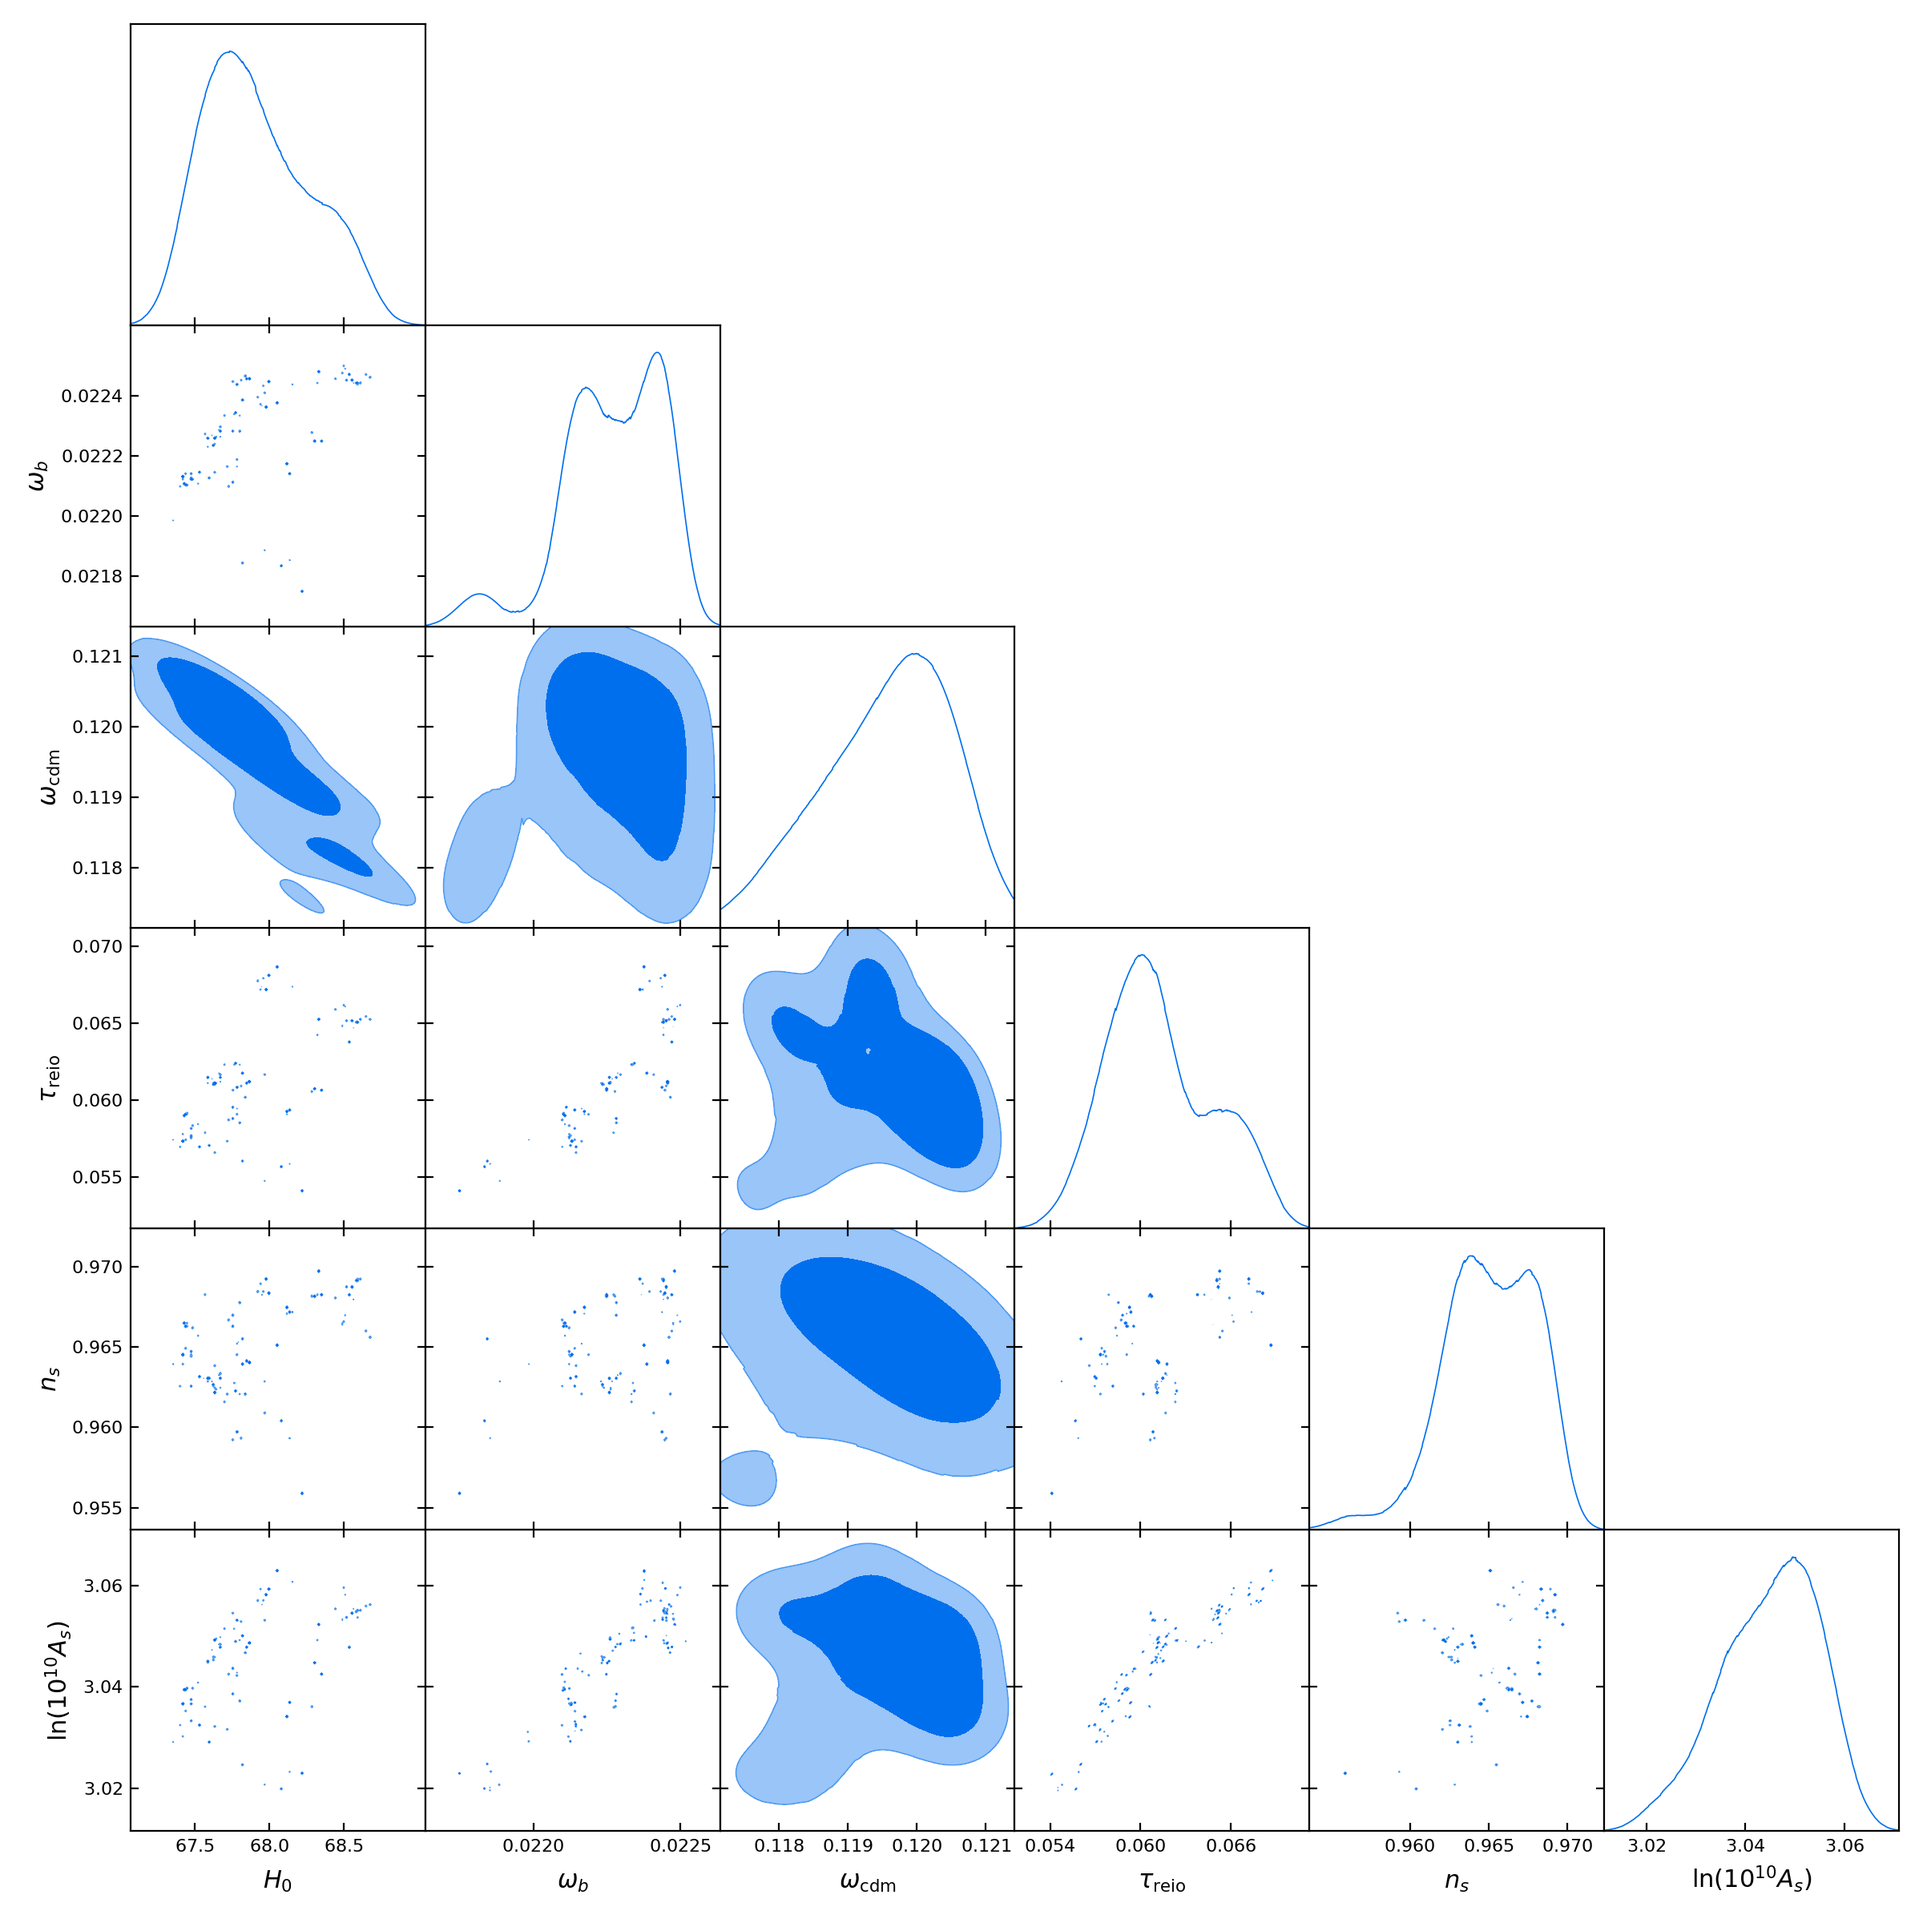
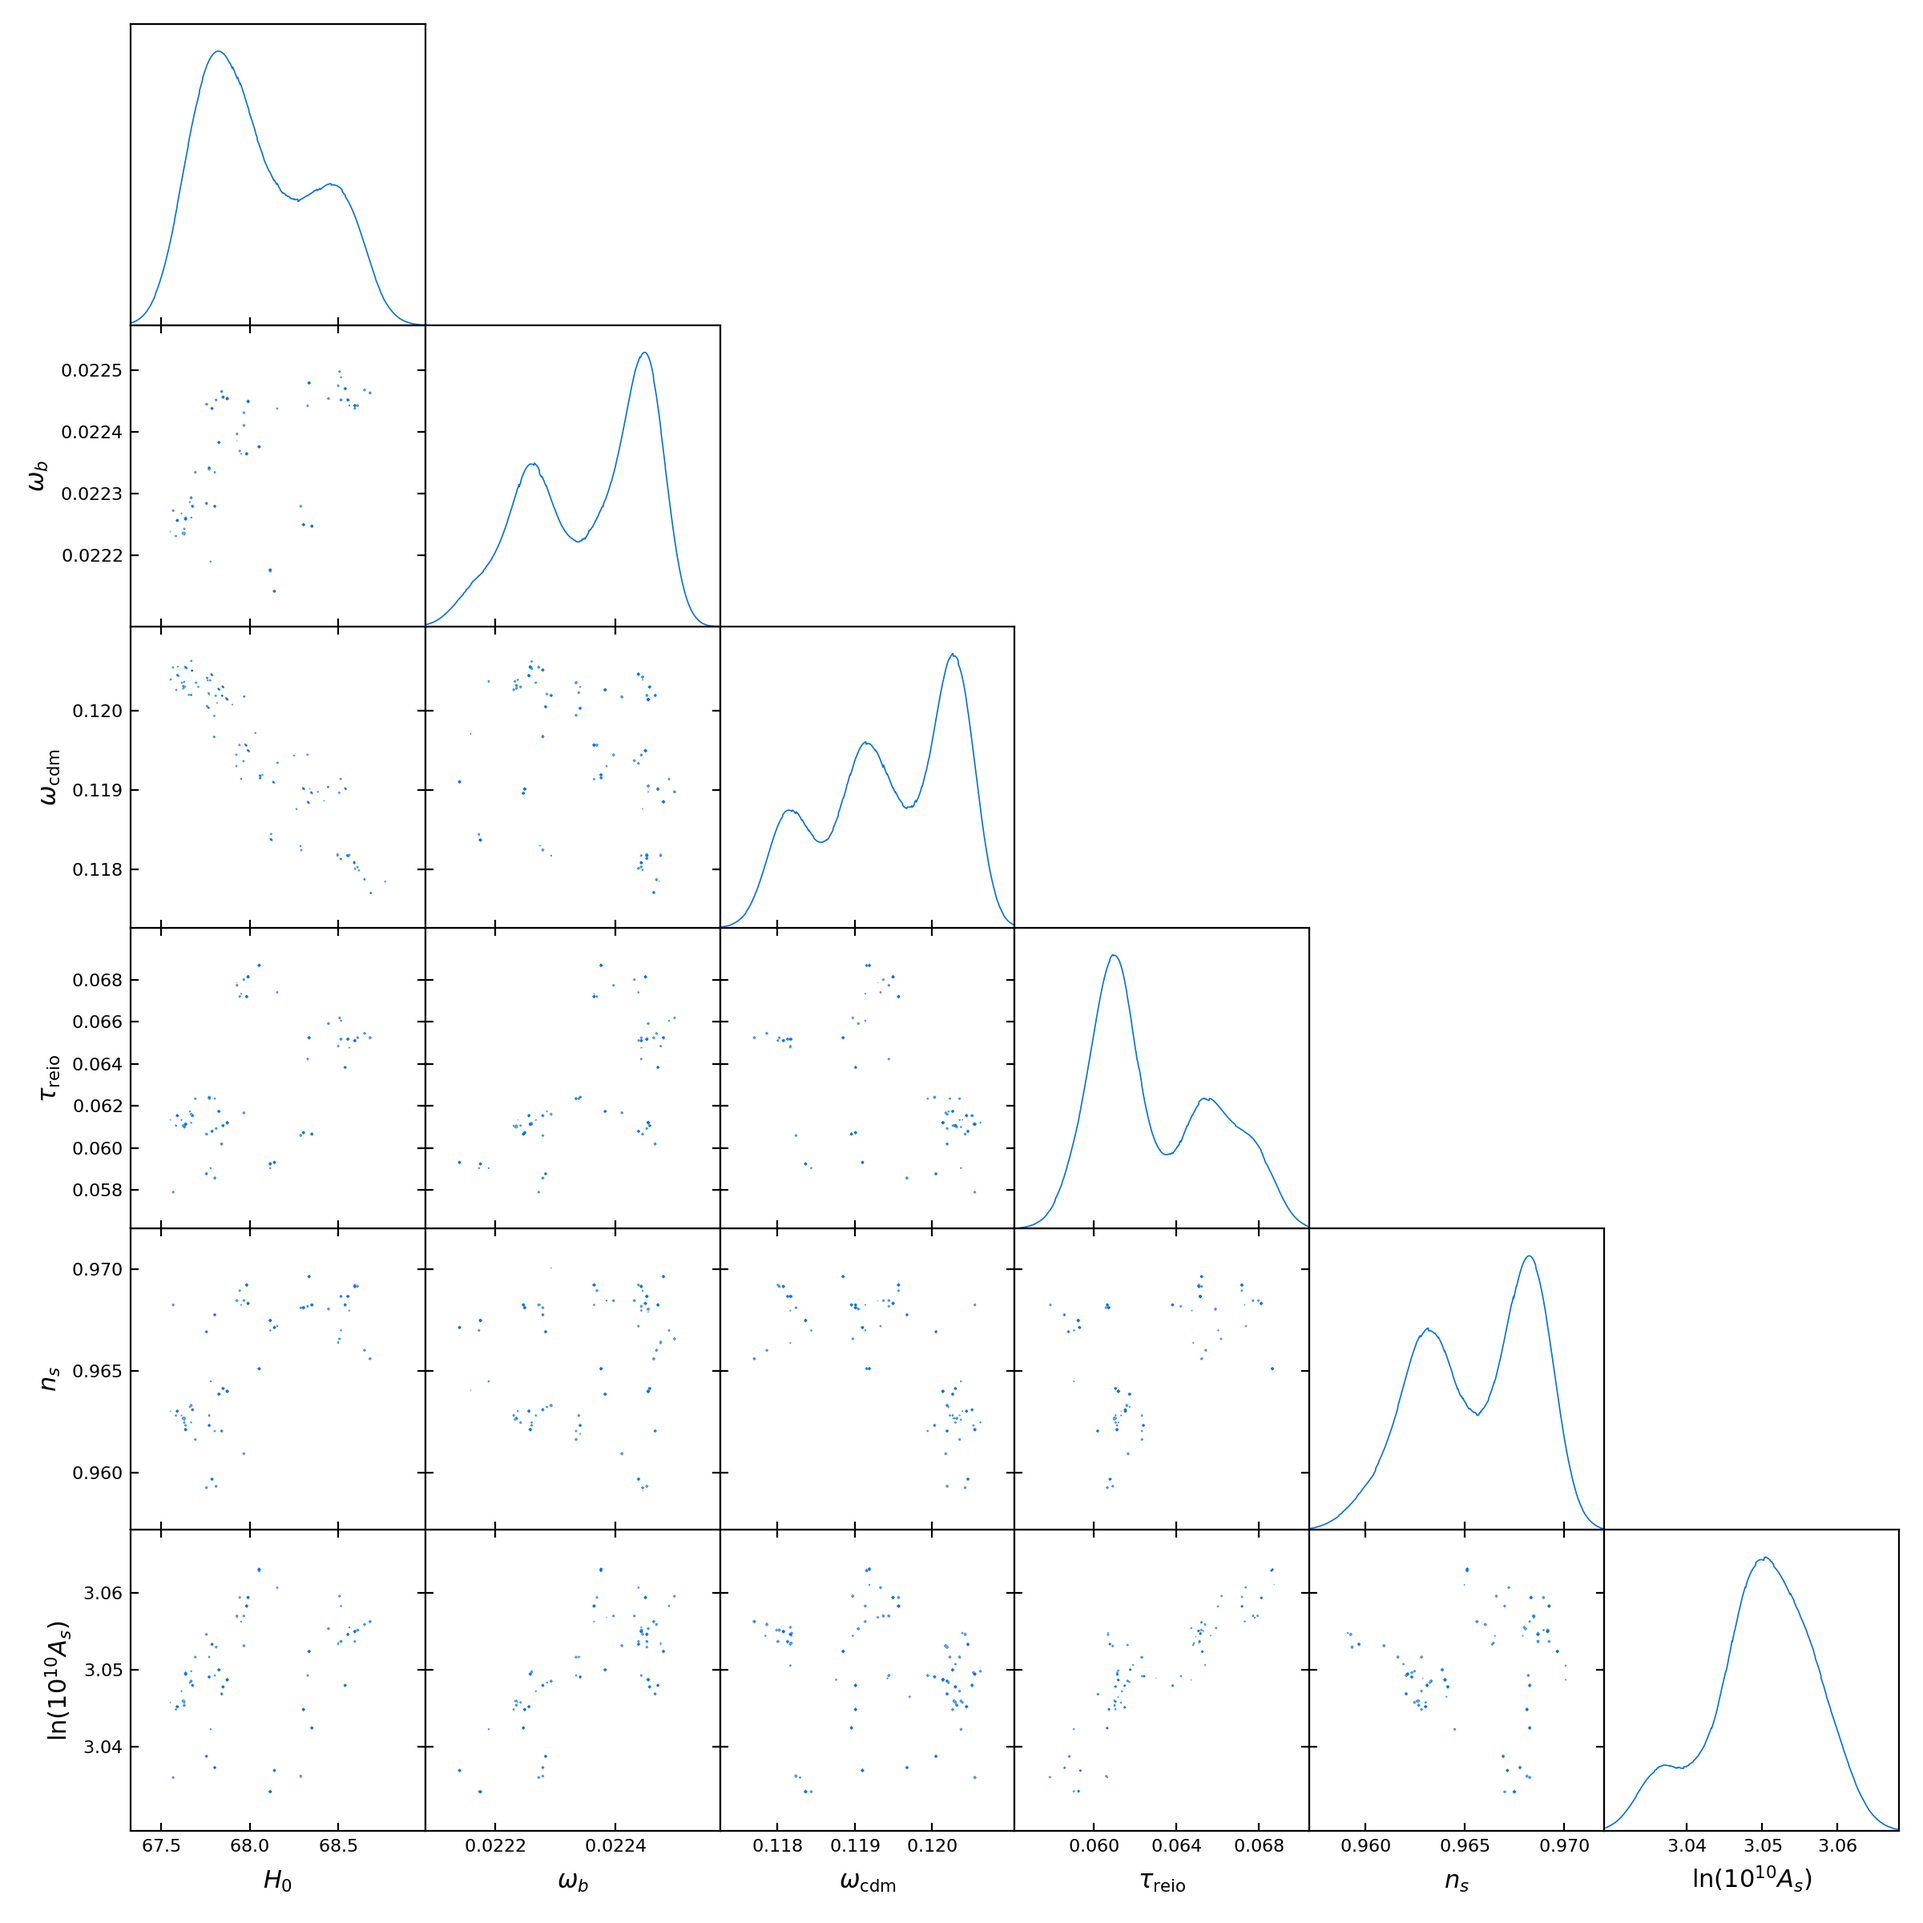
Sync work before deleting Codespace

diff --git a/compare_chains.py b/compare_chains.py
@@ -1,0 +1,214 @@
+# Install trianglechain package for plotting contours if you do not already have it
+# Note: shell-style pip install commands are not valid in regular Python scripts.
+import subprocess
+import sys
+
+# Install trianglechain package for plotting contours if you do not already have it
+# Using subprocess avoids relying on importing pip as a module.
+try:
+    import trianglechain
+except ImportError:
+    subprocess.check_call([sys.executable, '-m', 'pip', 'install', 'trianglechain'])
+    import trianglechain
+
+import numpy as np
+from trianglechain import TriangleChain
+import matplotlib.pyplot as plt
+import matplotlib
+import os
+
+# Helper function to transform raw Planck data into a structured numpy array
+# Assumes the first two columns are weights and minuslogpost in raw .txt files
+def transform_planck_raw_to_paramchain(data_array, names_list, indices_list):
+    # If it's already a structured array (e.g., from getdist), return as is.
+    if data_array.dtype.names is not None:
+        return data_array
+
+    n_rows = data_array.shape[0]
+    if n_rows == 0: # Handle empty data array case
+        return np.empty(0, dtype=[(name, 'f8') for name in names_list])
+
+    # Create a structured dtype for the parameters we care about
+    # The format 'f8' denotes float64
+    dtype_fields = [(name, 'f8') for name in names_list]
+    rec = np.empty(n_rows, dtype=dtype_fields)
+
+    for i, param_name in enumerate(names_list):
+        col_index = indices_list[i]
+        if col_index >= data_array.shape[1]:
+            print(f"Warning: Column index {col_index} for parameter '{param_name}' is out of bounds for data with {data_array.shape[1]} columns. Filling with NaN.")
+            rec[param_name] = np.nan
+            continue
+
+        param_data = data_array[:, col_index]
+
+        if param_name == 'h':
+            # Convert H0 to h if values are in H0 scale (e.g., > 10, typically ~60-80)
+            if np.mean(param_data) > 10: # Check if mean is in H0 range
+                rec[param_name] = param_data / 100.0
+            else:
+                rec[param_name] = param_data
+        else:
+            rec[param_name] = param_data
+
+    # Add a check for all-NaN columns before returning
+    for name in names_list:
+        if np.all(np.isnan(rec[name])):
+            print(f"Warning: Parameter '{name}' has all NaN values after transformation. This may cause plotting issues.")
+
+    return rec
+
+
+# Define new paths for the chains
+base_planck_chain_dir = "./planck2018_chains/base/plikHM_TTTEEE_lowl_lowE_lensing/" 
+base_planck_file_prefix = os.path.join(base_planck_chain_dir, "base_plikHM_TTTEEE_lowl_lowE_lensing")  # Assuming the first file is _1.txt
+
+bao_chain_path = os.path.join(base_planck_chain_dir, "base_plikHM_TTTEEE_lowl_lowE_lensing_post_BAO")
+my_chain_path = "./mpi_chains/planck_tttee"
+
+
+# Desired cosmological parameters for plotting in a specific order
+plotting_cosmo_params = ['h','omega_b','omega_cdm', 'tau_reio', 'ln_A_s_1e10','n_s']
+
+# --- Dynamic determination of general_names and general_indices for Planck Base and Planck+BAO chains ---
+paramnames_file_path = base_planck_file_prefix + '.paramnames'
+# Temporarily store (processed_param_name, original_index) tuples
+found_params_temp = []
+
+print(f"Attempting to dynamically load parameter names and indices from: {paramnames_file_path}")
+if os.path.exists(paramnames_file_path):
+    with open(paramnames_file_path, 'r') as f:
+        for i, line in enumerate(f):
+            # Split by whitespace, max 1 split to separate name from label
+            parts = line.strip().split(None, 1)
+            if not parts:
+                continue
+            param_name_raw = parts[0]
+
+            processed_param_name = param_name_raw # Start with raw name
+
+            # Mapping common aliases to the desired plotting names
+            if param_name_raw == 'H0*':
+                processed_param_name = 'h'
+            elif param_name_raw == 'omegabh2':
+                processed_param_name = 'omega_b'
+            elif param_name_raw == 'omegach2':
+                processed_param_name = 'omega_cdm'
+            elif param_name_raw == 'tau': # Sometimes just 'tau' for reio optical depth
+                processed_param_name = 'tau_reio'
+            elif param_name_raw == 'logA': # log(10^10 A_s)
+                processed_param_name = 'ln_A_s_1e10'
+            elif param_name_raw == 'ns':
+                processed_param_name = 'n_s'
+
+            # Check if this processed parameter is one of our target plotting parameters
+            if processed_param_name in plotting_cosmo_params:
+                # Add if not already found (to avoid duplicates from aliases if present)
+                if processed_param_name not in [p[0] for p in found_params_temp]:
+                    found_params_temp.append((processed_param_name, i))
+
+    # Sort the dynamically found parameters to match the desired plotting order
+    # The key=lambda x: plotting_cosmo_params.index(x[0]) is correct
+    ordered_params_with_indices = sorted(
+        found_params_temp,
+        key=lambda x: plotting_cosmo_params.index(x[0])
+    )
+    general_names = [name for name, _ in ordered_params_with_indices]
+    general_indices = [2+idx for _, idx in ordered_params_with_indices]
+
+    if general_names:
+        print(f"Successfully loaded {len(general_names)} cosmological parameters and their indices from .paramnames file for Planck Base and Planck+BAO.")
+        print(f"General names: {general_names}")
+        print(f"General indices: {general_indices}")
+    else:
+        print("Warning: No desired cosmological parameters found in .paramnames using flexible parsing. Falling back to hardcoded defaults.")
+        # Fallback to hardcoded if no relevant params found
+        general_names = plotting_cosmo_params
+        general_indices = [2,3,4,5,6,7] # Assuming weight, minuslogpost then parameters
+else:
+    print(f"Warning: .paramnames file not found at {paramnames_file_path}. Falling back to hardcoded general_names and general_indices for Planck Base and Planck+BAO.")
+    general_names = plotting_cosmo_params
+    general_indices = [2,3,4,5,6,7] # Assuming weight, minuslogpost then parameters
+
+# For 'My Chains', use my_chain_indices as previously corrected.
+# This assumes it also has weight/minuslogpost, then parameters in the same order as general. The H0 to h conversion is handled in transform_planck_raw_to_paramchain.
+my_chain_indices = [2,3,4,5,6,7]
+
+params = general_names # These are the parameter names for plotting
+
+# Parameter ranges for the plotting (kept as hardcoded from original cell for now)
+ranges = {
+    'omega_b': [0.022, 0.023],
+    'omega_cdm': [0.11, 0.125],
+    'h': [0.6, 0.8],
+    'tau_reio': [0.01, 0.13],
+    'ln_A_s_1e10': [2.9, 3.2],
+    'n_s': [0.95, 0.99],
+}
+
+# Function to load and transform chains, now flexible for multi-file or single-file inputs
+def load_and_transform_chain_flexible(file_path_or_prefix, is_multi_file, dot_or_dash, chain_label, current_names, current_indices):
+    planck_chain_tot = None
+    if is_multi_file:
+        # Load multiple files (e.g., _1.txt, _2.txt, etc.)
+        for i in range(1, 5): # Assuming chain files are _1.txt, _2.txt, _3.txt, _4.txt
+            chain_path = f'{file_path_or_prefix}{dot_or_dash}{i}.txt'
+            try:
+                planck_chain_raw = np.loadtxt(chain_path)
+                if planck_chain_tot is None:
+                    planck_chain_tot = planck_chain_raw
+                else:
+                    planck_chain_tot = np.vstack((planck_chain_tot, planck_chain_raw))
+            except Exception as e:
+                print(f"Could not load multi-file part \n{chain_path} \nfor \n'{chain_label}': {e}")
+                continue
+    else:
+        # Load a single specified file
+        try:
+            planck_chain_raw = np.loadtxt(file_path_or_prefix)
+            planck_chain_tot = planck_chain_raw
+        except Exception as e:
+            print(f"Could not load single file \n'{file_path_or_prefix}' \nfor \n'{chain_label}': {e}")
+
+    if planck_chain_tot is not None and planck_chain_tot.size > 0:
+        return transform_planck_raw_to_paramchain(planck_chain_tot, current_names, current_indices)
+    else:
+        print(f"No valid data loaded or empty data for '{chain_label}'.")
+        return None
+
+# Load and transform chains using the new flexible function
+print(f"Loading Planck Base chains from \n{base_planck_file_prefix}...")
+planck_chain_1 = load_and_transform_chain_flexible(base_planck_file_prefix, True, "_", "Planck Base", general_names, general_indices)
+
+print(f"Loading Planck + BAO chain from \n{bao_chain_path}...")
+planck_chain_2 = load_and_transform_chain_flexible(bao_chain_path, True, "_", "Planck + BAO", general_names, general_indices)
+
+print(f"Loading My Chains Planck chain from \n{my_chain_path}...")
+planck_chain_3 = load_and_transform_chain_flexible(my_chain_path, True, ".", "My Chains", general_names, my_chain_indices)
+
+
+# Prepare and plot the distributions
+matplotlib.rcParams['font.family'] = 'serif'
+matplotlib.rcParams['legend.shadow'] = False
+matplotlib.rcParams['legend.frameon'] = False
+plt.rcParams.update({"text.usetex": False}) # Set to False to avoid LaTeX errors
+
+tri = TriangleChain(density_estimation_method='smoothing', params=params, ranges=ranges,
+                    labels=[r"h", r"$\omega_b$", r"$\omega_{cdm}$", r"$\tau_{\rm reio}$", r"$\ln(10^{10}A_s)$", r"$n_s$" ])
+
+if planck_chain_1 is not None:
+    tri.contour_cl(planck_chain_1, color='red', label="Planck Base")
+if planck_chain_2 is not None:
+    tri.contour_cl(planck_chain_2, color='green', label="Planck + BAO")
+if planck_chain_3 is not None:
+    tri.contour_cl(planck_chain_3, color='blue', label="My Chains")
+
+plt.suptitle('Triangle Plots for Chain Comparison', y=1.02)
+plt.show()
+
+# Create a unique filename for the plot
+plot_filename = f"triangle_plot_comparison.png"
+plot_path = os.path.join("./", plot_filename)
+
+plt.savefig(plot_path, bbox_inches='tight', dpi=300)
+print(f"\nTriangle plot generated and saved to: {plot_path}")

diff --git a/analyze_my_chain.py b/analyze_my_chain.py
@@ -7,13 +7,21 @@ from getdist import plots, MCSamples
 # 1. Load the chain
 # ---------------------------------------------------------
 prefix = "chains/planck_tttee"
-chains = load_samples(prefix, combined=True, to_getdist=False)
+skip=0.3
+chains = load_samples(prefix, combined=True, to_getdist=False, skip=skip)
 
 param_names = list(chains.columns)
 
 print("\n=== Loaded Chain Information ===")
 print(f"Total samples: {chains.data.shape[0]}")
 print(f"Total parameters: {len(param_names)}")
+
+try:
+  getdist_chains = load_samples(prefix, combined=True, to_getdist=True, skip=skip)
+  r_minus_1_overall=getdist_chains.getGelmanRubin()
+  print(f"Overall Gelman-Rubin R-1 (worst parameter): {r_minus_1_overall:.4f}")
+except Exception as e:
+  print(f"WARNING: R-1 value was not computed! {e}")
 
 # ---------------------------------------------------------
 # 2. Cosmological parameters (using ln_A_s_1e10 explicitly)

diff --git a/analyze_planck_chain.py b/analyze_planck_chain.py
@@ -125,6 +125,12 @@ def main():
     print(f"Total samples: {samples.numrows}")
     print(f"Total parameters: {len(param_names)}")
 
+    try:
+        r_minus_1_overall=samples.getGelmanRubin()
+        print(f"Overall Gelman-Rubin R-1 (worst parameter): {r_minus_1_overall:.4f}")
+    except Exception as e:
+        print(f"WARNING: R-1 value was not computed! {e}")
+
     cosmo_params_present, display_names = get_cosmo_params(param_names)
     extra_params = [p for p in param_names if p not in cosmo_params_present]
 
